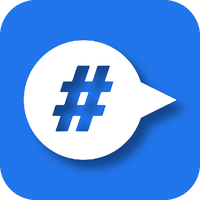
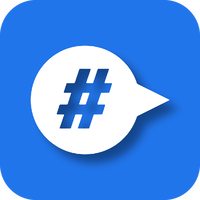
Equalize symbol sizes and list the ten Kcalb Ltd brands
The symbols of the brand family now share the same perceived size, so
the icons align when shown side by side. PNG exports and the manifest
are regenerated from the updated vector masters, and the README family
table adds InoPulse, InoPlace and InoShop.

diff --git a/README.md b/README.md
@@ -6,7 +6,7 @@
 <img src="assets/png/symbol-color/crypto-only-symbol-color-200.png" width="96" alt="Crypto-Only symbol">
 </p>
 
-Official logo files for **Crypto-Only** — *Built for communities* — [crypto-only.org](https://crypto-only.org).
+Official logo files for **Crypto-Only** — *Connecting communities* — [crypto-only.org](https://crypto-only.org).
 Crypto-Only is a brand of [Kcalb Ltd](https://kcalb-ltd.com), part of the KcalbApp ecosystem.
 
 ## Choose an asset
@@ -21,7 +21,7 @@ Crypto-Only is a brand of [Kcalb Ltd](https://kcalb-ltd.com), part of the KcalbA
 
 Every PNG is rendered from the SVG masters. Use the SVG whenever the platform accepts it, otherwise the smallest PNG that is at least as large as the display size on a high-density screen.
 
-Direct links, for integrations: `https://raw.githubusercontent.com/KcalbApp/crypto-only-brand/main/assets/png/round/crypto-only-round-500.png`. For production, pin a commit hash instead of `main` and check the file against [asset-manifest.json](asset-manifest.json).
+Direct links, for integrations: `https://raw.githubusercontent.com/Kcalb-Ltd/crypto-only-brand/main/assets/png/round/crypto-only-round-500.png`. For production, pin a commit hash instead of `main` and check the file against [asset-manifest.json](asset-manifest.json).
 
 ## Official colors
 
@@ -49,15 +49,18 @@ The icon is a flat brand color with a white symbol and a soft drop shadow toward
 
 | Brand | Assets | Website |
 |---|---|---|
-| Xitcoin | [`xitcoin-org/brand`](https://github.com/xitcoin-org/brand) | [xitcoin.org](https://xitcoin.org) |
-| KcalbApp | [`KcalbApp/kcalbapp-brand`](https://github.com/KcalbApp/kcalbapp-brand) | [kcalb-ltd.com](https://kcalb-ltd.com) |
-| InoAi | [`KcalbApp/inoai-brand`](https://github.com/KcalbApp/inoai-brand) | [inoai.org](https://inoai.org) |
-| Kcanther | [`KcalbApp/kcanther-brand`](https://github.com/KcalbApp/kcanther-brand) | [kcanther.org](https://kcanther.org) |
-| InoSwap | [`KcalbApp/inoswap-brand`](https://github.com/KcalbApp/inoswap-brand) | [inoswap.org](https://inoswap.org) |
-| StakeHolDrop | [`KcalbApp/stakeholdrop-brand`](https://github.com/KcalbApp/stakeholdrop-brand) | [stakeholdrop.com](https://stakeholdrop.com) |
-| Crypto-Only | [`KcalbApp/crypto-only-brand`](https://github.com/KcalbApp/crypto-only-brand) | [crypto-only.org](https://crypto-only.org) |
+| InoPulse | [`Kcalb-Ltd/inopulse-brand`](https://github.com/Kcalb-Ltd/inopulse-brand) | [inopulse.org](https://inopulse.org) |
+| Crypto-Only | [`Kcalb-Ltd/crypto-only-brand`](https://github.com/Kcalb-Ltd/crypto-only-brand) | [crypto-only.org](https://crypto-only.org) |
+| KcalbApp | [`Kcalb-Ltd/kcalbapp-brand`](https://github.com/Kcalb-Ltd/kcalbapp-brand) | [kcalb-ltd.com](https://kcalb-ltd.com) |
+| StakeHolDrop | [`Kcalb-Ltd/stakeholdrop-brand`](https://github.com/Kcalb-Ltd/stakeholdrop-brand) | [stakeholdrop.com](https://stakeholdrop.com) |
+| InoAi | [`Kcalb-Ltd/inoai-brand`](https://github.com/Kcalb-Ltd/inoai-brand) | [inoai.org](https://inoai.org) |
+| InoSwap | [`Kcalb-Ltd/inoswap-brand`](https://github.com/Kcalb-Ltd/inoswap-brand) | [inoswap.org](https://inoswap.org) |
+| InoPlace | [`Kcalb-Ltd/inoplace-brand`](https://github.com/Kcalb-Ltd/inoplace-brand) | [inoplace.org](https://inoplace.org) |
+| Kcanther | [`Kcalb-Ltd/kcanther-brand`](https://github.com/Kcalb-Ltd/kcanther-brand) | [kcanther.org](https://kcanther.org) |
+| Xitcoin | [`Xitcoin-org/brand`](https://github.com/Xitcoin-org/brand) | [xitcoin.org](https://xitcoin.org) |
+| InoShop | [`Kcalb-Ltd/inoshop-brand`](https://github.com/Kcalb-Ltd/inoshop-brand) | [inoshop.org](https://inoshop.org) |
 
 ## License and contact
 
 Copyright © 2026 Kcalb Ltd. All rights reserved — the [LICENSE](LICENSE) allows use of the unmodified files to refer to Crypto-Only.
-Questions and requests: **contact@crypto-only.org**, or open an [issue](https://github.com/KcalbApp/crypto-only-brand/issues).
+Questions and requests: **contact@crypto-only.org**, or open an [issue](https://github.com/Kcalb-Ltd/crypto-only-brand/issues).

diff --git a/ASSETS.md b/ASSETS.md
@@ -2,7 +2,7 @@
 
 Generated 24 September 2026. The [machine-readable manifest](asset-manifest.json) records byte lengths and SHA-256 identifiers; `scripts/verify-assets.py` checks them on every change.
 
[2 lines of base64/hex data omitted]
 
 | File | Format | Size | Use |
 |---|---|---|---|
